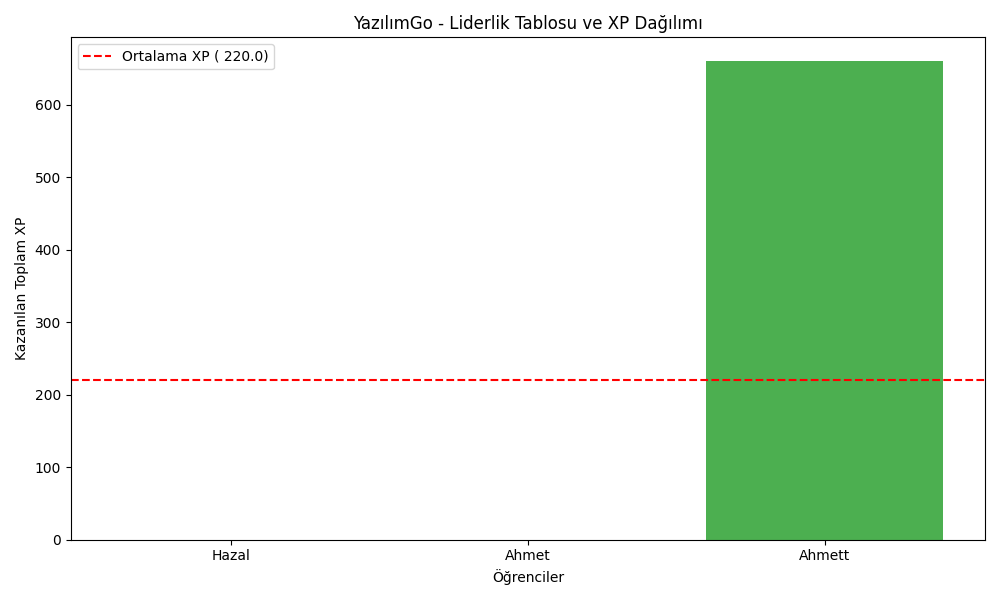
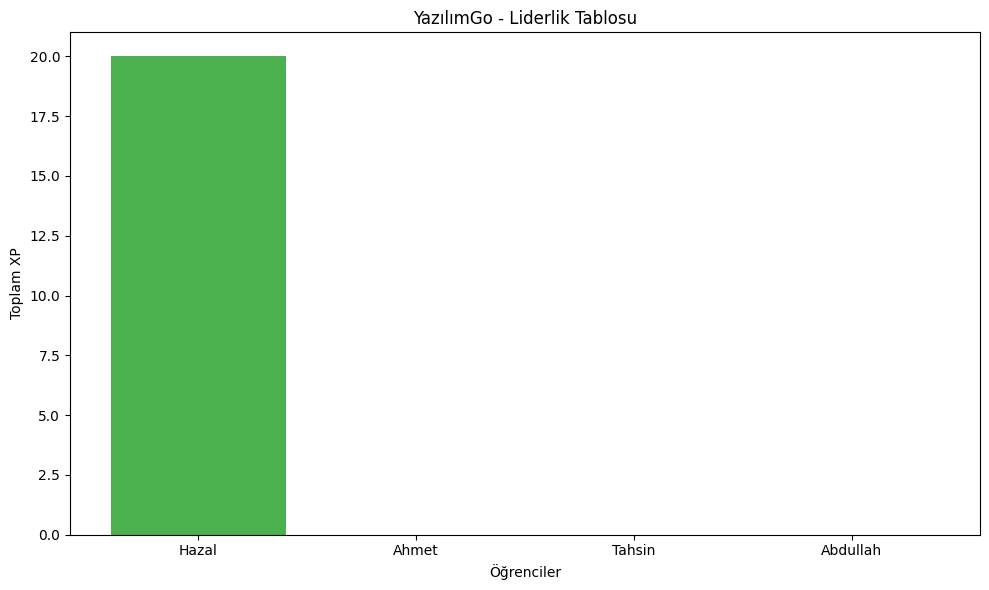
Ekleme/ Çıkartma denemeleri sonucunda seed.py güncellemesi yaptım.

diff --git a/bll/analytics_engine.py b/bll/analytics_engine.py
@@ -7,34 +7,28 @@ class AnalyticsEngine:
     def __init__(self, kullanici_repo: KullaniciRepository):
         self.repo=kullanici_repo
     def xp_liderlik_grafigi_ciz(self):
-        kullanicilar= self.repo.tum_kullanicilari_getir()
+        kullanicilar = self.repo.tum_kullanicilari_getir()
         if not kullanicilar:
-            print("Grafik çizilecek kullanıcı verisi bulunamadı. ")
             return
-        #list comprehension(liste üretici)--> kullanıcılar içindeki her bir k için k.kullanici_adi'ni al ve yeni bir liste oluştur demek
+
         isimler = [k.kullanici_adi for k in kullanicilar]
         xpler = [k.toplam_xp for k in kullanicilar]
 
-        xp_array= np.array(xpler)
-        #mean matematikteki aritmetik ortalama demektir. xp'leri toplar ve kişi sayısına böler
-        ortalama_xp = np.mean(xp_array)
-
+        # Grafik boyutu (10 genişlik, 6 yükseklik)
         plt.figure(figsize=(10,6))
+        
         plt.bar(isimler, xpler, color='#4CAF50')
-
-        plt.axhline(y=ortalama_xp, color='r', linestyle='--', label=f'Ortalama XP ({ortalama_xp: .1f})')
-
-        plt.title("YazılımGo - Liderlik Tablosu ve XP Dağılımı")
+        
+        # Etiketler
+        plt.title("YazılımGo - Liderlik Tablosu")
         plt.xlabel("Öğrenciler")
-        plt.ylabel("Kazanılan Toplam XP")
-        plt.legend()
-        plt.tight_layout() #isimler uzunsa kenar boşluklarını otomatik sık, yerleştir
+        plt.ylabel("Toplam XP")
 
-        dosya_adi= "analiz_liderlik_tablosu.png"
-        plt.savefig(dosya_adi)
+        plt.tight_layout() 
+        
+        # Resmi Kaydet (bbox_inches='tight' demek: "Kenarları kesme, hepsini al" demektir)
+        plt.savefig("analiz_liderlik_tablosu.png", bbox_inches='tight')
         plt.close()
-
-        print(f"Liderlik grafiği çizildi! {dosya_adi} olarak kaydedildi.")
 
     def seviye_dagilimi_ciz(self):
         kullanicilar=self.repo.tum_kullanicilari_getir()

diff --git a/dal/ilerleme_repository.py b/dal/ilerleme_repository.py
@@ -1,1 +1,22 @@
-#ilerleme durumu crud işlemleri
+from sqlalchemy.orm import Session
+from entities.ilerleme import IlerlemeKaydi
+
+class IlerlemeRepository:
+    def __init__(self, session: Session):
+        self.session = session
+
+    # Belirli bir kullanıcının, belirli bir dersteki ilerlemesini getir
+    def kullanici_ders_ilerleme_getir(self, kullanici_id: int, ders_id: int):
+        return self.session.query(IlerlemeKaydi).filter(
+            IlerlemeKaydi.kullanici_id == kullanici_id,
+            IlerlemeKaydi.ders_id == ders_id
+        ).first()
+
+    # Kullanıcının tüm ders geçmişini getir
+    def kullanicinin_tum_ilerlemelerini_getir(self, kullanici_id: int):
+        return self.session.query(IlerlemeKaydi).filter(IlerlemeKaydi.kullanici_id == kullanici_id).all()
+
+    # Yeni bir ilerleme kaydı ekle
+    def ilerleme_ekle(self, ilerleme_kaydi: IlerlemeKaydi):
+        self.session.add(ilerleme_kaydi)
+        self.session.commit()

diff --git a/presentation/screens/profil_ekrani.py b/presentation/screens/profil_ekrani.py
@@ -1,9 +1,13 @@
 import tkinter as tk
+from bll.analytics_engine import AnalyticsEngine
 
 class ProfilEkrani(tk.Frame):
-    def __init__(self, parent, ana_menuye_don_komutu):
+    def __init__(self, parent, ana_menuye_don_komutu, kullanici_repo):
         super().__init__(parent, bg="#2b2b2b")
         self.ana_menuye_don_komutu = ana_menuye_don_komutu
+        self.repo=kullanici_repo
+        engine=AnalyticsEngine(self.repo)
+        engine.xp_liderlik_grafigi_ciz()
 
         self.ust_panel = tk.Frame(self, bg="#1e1e1e")
         self.ust_panel.pack(fill="x", pady=10, padx=20)
@@ -18,13 +22,13 @@ class ProfilEkrani(tk.Frame):
         self.bilgi_panel = tk.Frame(self, bg="#2b2b2b")
         self.bilgi_panel.pack(pady=10)
 
-        self.lbl_isim = tk.Label(self.bilgi_panel, text="Kullanıcı: ...", font=("Arial", 18, "bold"), bg="#2b2b2b", fg="#4CAF50")
+        self.lbl_isim = tk.Label(self.bilgi_panel, text="Kullanıcı: ...", font=("Arial", 18, "bold"), bg="#2b2b2b", fg="#ADBB32")
         self.lbl_isim.pack(side="left", padx=10)
 
         self.lbl_seviye = tk.Label(self.bilgi_panel, text="Seviye: 1", font=("Arial", 14), bg="#2b2b2b", fg="white")
         self.lbl_seviye.pack(side="left", padx=10)
 
-        self.lbl_xp = tk.Label(self.bilgi_panel, text="Toplam XP: 0", font=("Arial", 14), bg="#2b2b2b", fg="#FFD700")
+        self.lbl_xp = tk.Label(self.bilgi_panel, text="Toplam XP: 0", font=("Arial", 14), bg="#2b2b2b", fg="#00FF40")
         self.lbl_xp.pack(side="left", padx=10)
 
         # Matplotlib PNG Alanı
@@ -45,7 +49,7 @@ class ProfilEkrani(tk.Frame):
             try:
                 # Profil açıldığında Liderlik Tablosunu ekrana basar.
                 # subsample(2, 2) resmi Tkinter içine sığdırmak için boyutunu yarıya indirir.
-                self.guncel_resim = tk.PhotoImage(file="analiz_liderlik_tablosu.png").subsample(2, 2)
+                self.guncel_resim = tk.PhotoImage(file="analiz_liderlik_tablosu.png").subsample(2,2)
                 self.lbl_resim.config(image=self.guncel_resim)
             except Exception as e:
                 self.lbl_resim.config(text=f"Henüz yeterli veri yok veya grafik bulunamadı.\n(Kod: {str(e)})", fg="gray", font=("Arial", 12, "italic"))

diff --git a/seed.py b/seed.py
@@ -32,7 +32,7 @@ def seed_verileri_yukle():
                      dogru_cevap="Merhaba", kazanilan_xp=10, sira_no=1)
         
         ders2 = Ders(modul_id=modul1.modul_id, ders_basligi="2. Değişken Tanımlama", ders_turu="kod_yazma", 
-                     soru_metni="Görev: x adında bir değişken oluşturun, içine 50 değerini atayın ve ekrana yazdırın.\nx = 50\nprint(x)", 
+                     soru_metni="Görev: x adında bir değişken oluşturun, içine 50 değerini atayın ve ekrana yazdırın", 
                      dogru_cevap="50", kazanilan_xp=20, sira_no=2)
         
         ders3 = Ders(modul_id=modul1.modul_id, ders_basligi="3. Matematiksel İşlemler", ders_turu="kod_yazma", 
@@ -48,19 +48,19 @@ def seed_verileri_yukle():
                      dogru_cevap="10", kazanilan_xp=40, sira_no=5)
 
         ders6 = Ders(modul_id=modul1.modul_id, ders_basligi="6. For Döngüsü", ders_turu="kod_yazma", 
-                     soru_metni="Görev: for döngüsü ile 0'dan 2'ye kadar olan sayıları alt alta yazdırın.\nfor i in range(3):\n    print(i)", 
+                     soru_metni="Görev: for döngüsü ile 0'dan 2'ye kadar olan sayıları alt alta yazdırın.", 
                      dogru_cevap="0\n1\n2", kazanilan_xp=50, sira_no=6)
                      
         ders7 = Ders(modul_id=modul1.modul_id, ders_basligi="7. Koşullu Durumlar (If-Else)", ders_turu="kod_yazma", 
-                     soru_metni="Görev: x = 10 değişkeni 5'ten büyükse ekrana Buyuk yazdırın.\nif x > 5:\n    print('Buyuk')", 
+                     soru_metni="Görev: x = 10 değişkeni 5'ten büyükse ekrana Buyuk yazdırın.", 
                      dogru_cevap="Buyuk", kazanilan_xp=60, sira_no=7)
 
         session.add_all([ders1, ders2, ders3, ders4, ders5, ders6, ders7])
         session.commit()
 
     if session.query(KazanimTanimi).first() is None:
-        rozet1 = KazanimTanimi(kazanim_adi="İlk Kan", aciklama="İlk dersini başarıyla tamamladın!", ikon_adi="ilk_kan", kosul_turu="ilk_ders", kosul_degeri=1)
-        rozet2 = KazanimTanimi(kazanim_adi="Döngü Ustası", aciklama="Döngüler konusunda pratik yaptın.", ikon_adi="dongu", kosul_turu="ders_sayisi", kosul_degeri=5)
+        rozet1 = KazanimTanimi(kazanim_adi="İlk Deneme", aciklama="İlk dersini başarıyla tamamladın!", ikon_adi="ilk_deneme", kosul_turu="ilk_ders", kosul_degeri=1)
+        rozet2 = KazanimTanimi(kazanim_adi="Döngü Başarısı", aciklama="Döngüler konusunda pratik yaptın.", ikon_adi="dongu", kosul_turu="ders_sayisi", kosul_degeri=5)
         rozet3 = KazanimTanimi(kazanim_adi="Hata Avcısı", aciklama="Sistemi hiç çökertmeden kodu çalıştırdın.", ikon_adi="hata", kosul_turu="gun_serisi", kosul_degeri=3)
         rozet4 = KazanimTanimi(kazanim_adi="Veri Bükücü", aciklama="SQL Modülüne başarıyla giriş yaptın.", ikon_adi="sql", kosul_turu="xp_esigi", kosul_degeri=200)
         

diff --git a/bll/kazanim_servisi.py b/bll/kazanim_servisi.py
@@ -15,13 +15,13 @@ class KazanimServisi:
         # Sistemdeki tüm rozet kurallarını getir
         tum_rozetler = self.kazanim_repo.tum_kazanim_tanimlarini_getir() 
         
-        # 2. Kullanıcının zaten aldığı rozetleri getir (Tekrar aynı rozeti vermemek için)
+        # Kullanıcının zaten aldığı rozetleri getir (Tekrar aynı rozeti vermemek için)
         sahip_olunanlar = self.kazanim_repo.kullanicinin_kazanimlarini_getir(kullanici_id)
         sahip_olunan_id_listesi = [k.kazanim_id for k in sahip_olunanlar]
 
         yeni_kazanilanlar = []
 
-        # 3. Rozetleri tek tek kontrol et
+        # Rozetleri tek tek kontrol et
         for rozet in tum_rozetler:
             if rozet.kazanim_id in sahip_olunan_id_listesi:
                 continue 

diff --git a/main.py b/main.py
@@ -152,7 +152,9 @@ def main():
 
     profil_ekrani = ProfilEkrani(
         root,
-        ana_menuye_don_komutu=lambda: sayfaya_git("AnaMenu")
+        ana_menuye_don_komutu=lambda: sayfaya_git("AnaMenu"),
+        kullanici_repo=kullanici_repo
+
     )
     kazanimlar_ekrani = KazanimlarEkrani(
         root,

diff --git a/presentation/screens/ana_menu_ekrani.py b/presentation/screens/ana_menu_ekrani.py
@@ -1,8 +1,8 @@
 import tkinter as tk
-from entities import kazanim
 from presentation.components.xp_bar import XPBar
 from presentation.components.rozet_widget import RozetWidget
 from presentation.components.ders_karti import DersKarti
+
 
 class AnaMenuEkrani(tk.Frame):
     def __init__(self, parent,kullanici_servisi, ders_servisi, sayfa_gecis_komutu, profile_git_komutu, kazanimlara_git_komutu):
@@ -35,7 +35,7 @@ class AnaMenuEkrani(tk.Frame):
         self.sag_panel.pack(side="right", fill="both", expand=True)
 
         self.xp_bar = XPBar(self.sol_panel)
-        self.xp_bar.pack(pady=10, padx=10, fill="x")
+        self.xp_bar.pack(pady=20, padx=20, fill="x")
 
         self.rozet_widget= RozetWidget(self.sol_panel)
         self.rozet_widget.pack(pady=20, padx=10, fill="x")

diff --git a/presentation/screens/kazanimlar_ekrani.py b/presentation/screens/kazanimlar_ekrani.py
@@ -39,11 +39,11 @@ class KazanimlarEkrani(tk.Frame):
         sutun = 0
         for kazanim in kazanimlar:
             # Rozet Kartı
-            kart = tk.Frame(self.rozetler_alani, bg="#f9f9f9", bd=1, relief="ridge", padx=10, pady=10)
+            kart = tk.Frame(self.rozetler_alani, bg="#ffffff", bd=1, relief="ridge", padx=10, pady=10)
             kart.grid(row=satir, column=sutun, padx=10, pady=10)
 
             # Rozet İkonu 
-            ikon = tk.Label(kart, text="🎖️", font=("Arial", 32), bg="#f9f9f9")
+            ikon = tk.Label(kart, text="🎖️", font=("Arial", 32), bg="#ffffff")
             ikon.pack()
 
             # Rozet Adı

diff --git a/dal/ders_repository.py b/dal/ders_repository.py
@@ -1,6 +1,6 @@
 from sqlalchemy.orm import Session
 from entities.ders import Ders
-
+ #dependency injection yaptım. 
 class DersRepository:
     def __init__(self, session: Session):
         self.session=session

diff --git a/presentation/components/rozet_widget.py b/presentation/components/rozet_widget.py
@@ -21,7 +21,7 @@ class RozetWidget(tk.Frame):
         for rozet_adi in rozet_listesi:
             rozet_etiketi = tk.Label(self.rozet_alani,
                                      text=f"{rozet_adi}",
-                                     bg='#FFD700', fg="black",
+                                     bg="#A6FF00", fg="black",
                                      font=("Arial", 10, "bold"),
                                      padx=5, pady=2)
             rozet_etiketi.pack(side="left", padx=5)

diff --git a/presentation/screens/ders_ekrani.py b/presentation/screens/ders_ekrani.py
@@ -61,7 +61,7 @@ class DersEkrani(tk.Frame):
             gercek_sonuc = sonuc.strip().lower()
             
             if beklenen_cevap == gercek_sonuc:
-                self.txt_cikti.insert(tk.END, "\nTEBRİKLER! Görevi başarıyla tamamladınız!")
+                self.txt_cikti.insert(tk.END, "\nTEBRİKLER! ")
                 #eğer fonksiyon geçildiyse parametre olarak, main.py ye gitsin ve ders verisini göndersin istediğimden yazdım
                 if self.ders_tamamlandi_komutu:
                     self.ders_tamamlandi_komutu(self.aktif_ders)

diff --git a/README.md b/README.md
@@ -15,7 +15,7 @@ Proje, modülerlik ve sürdürülebilirlik için **N-Tier (Katmanlı Mimari)** y
 * **Singleton Pattern:** Veritabanı bağlantısında tekil nesne yönetimi.
 * **Strategy Pattern:** Farklı zorluk seviyelerine göre puan hesaplama algoritmaları.
 
-
+```markdown
 ## 🗺️ Veritabanı Mimarisi (ER Şeması)
 ```mermaid
 erDiagram